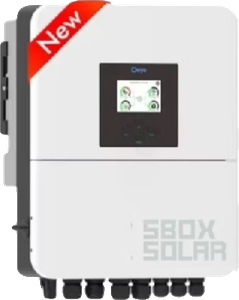
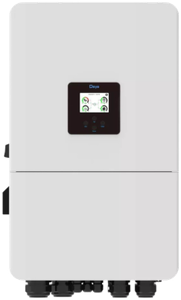
Deye hybrid picture: new watermark-free image from Drive (cache v3)
Claude-Session: https://claude.ai/code/session_01Wo4fCKibBs1zx3JDDLvPwS

Changed region(s): [[0.0, 0.0, 0.9945, 1.0], [0.7182, 0.81, 0.7459, 0.84]]

diff --git a/index.html b/index.html
@@ -3,10 +3,10 @@
 <head>
 <meta charset="utf-8">
 <meta name="viewport" content="width=device-width,initial-scale=1,viewport-fit=cover">
-<meta name="build" content="51da6fa278">
+<meta name="build" content="1b1b8b3d33">
 <script>/* phones keep the old page for a while (GitHub Pages cache): fetch the live copy once and reload if it is newer */
 addEventListener('load',()=>{try{fetch(location.pathname+'?nc='+Date.now(),{cache:'no-store'}).then(r=>r.text()).then(t=>{const m=/<meta name="build" content="([0-9a-f]+)"/.exec(t);
-if(m&&m[1]!=='51da6fa278'&&sessionStorage.getItem('pvsim:reloaded')!==m[1]){sessionStorage.setItem('pvsim:reloaded',m[1]);location.reload()}}).catch(()=>{})}catch(e){}});</script>
+if(m&&m[1]!=='1b1b8b3d33'&&sessionStorage.getItem('pvsim:reloaded')!==m[1]){sessionStorage.setItem('pvsim:reloaded',m[1]);location.reload()}}).catch(()=>{})}catch(e){}});</script>
 <title>ต่อสายแผงโซลาร์</title>
 <script>try{document.documentElement.dataset.theme=localStorage.getItem('pvsim:theme')||'light'}catch(e){document.documentElement.dataset.theme='light'}</script>
 <link rel="stylesheet" href="https://fonts.googleapis.com/css2?family=IBM+Plex+Sans+Thai:wght@400;500;600&family=IBM+Plex+Mono:wght@400;500;600&display=swap">
@@ -517,7 +517,7 @@ if(m&&m[1]!=='51da6fa278'&&sessionStorage.getItem('pvsim:reloaded')!==m[1]){sess
 <script src="js/site.js?v=3ef896c8"></script>
 <script src="js/loads.js?v=d3b46921"></script>
 <script src="js/backup.js?v=c4a06f5f"></script>
-<script src="js/bkanim.js?v=e7e8a31c"></script>
+<script src="js/bkanim.js?v=0b1b2743"></script>
 <script src="js/systems.js?v=a0f2fb7f"></script>
 <script src="js/events.js?v=50b85166"></script>
 <script src="js/bench.js?v=ebe5032f"></script>

diff --git a/dist/pv-wiring-sim.html b/dist/pv-wiring-sim.html
@@ -4561,7 +4561,7 @@ function bkaInvPic(I){
   const show=on=>{img.style.display=on?'':'none';body.style.display=on?'none':'';lcd.setAttribute('transform',on?'translate(0 -70)':'');
     document.getElementById('bainvl').setAttribute('y',on?316:303);document.getElementById('bainvm').setAttribute('y',on?331:319)};
   if(!k||BKA.picBad[k]){show(false);return}
-  if(img.dataset.k!==k){img.dataset.k=k;img.onerror=()=>{BKA.picBad[k]=1;show(false)};img.setAttribute('href','img/inv/'+k+'.png?v=2')}
+  if(img.dataset.k!==k){img.dataset.k=k;img.onerror=()=>{BKA.picBad[k]=1;show(false)};img.setAttribute('href','img/inv/'+k+'.png?v=3')}
   show(true);
 }
 /* time cursor on the menu 07 charts follows the animation time; click a chart to jump the animation there */

diff --git a/js/bkanim.js b/js/bkanim.js
@@ -134,7 +134,7 @@ function bkaInvPic(I){
   const show=on=>{img.style.display=on?'':'none';body.style.display=on?'none':'';lcd.setAttribute('transform',on?'translate(0 -70)':'');
     document.getElementById('bainvl').setAttribute('y',on?316:303);document.getElementById('bainvm').setAttribute('y',on?331:319)};
   if(!k||BKA.picBad[k]){show(false);return}
-  if(img.dataset.k!==k){img.dataset.k=k;img.onerror=()=>{BKA.picBad[k]=1;show(false)};img.setAttribute('href','img/inv/'+k+'.png?v=2')}
+  if(img.dataset.k!==k){img.dataset.k=k;img.onerror=()=>{BKA.picBad[k]=1;show(false)};img.setAttribute('href','img/inv/'+k+'.png?v=3')}
   show(true);
 }
 /* time cursor on the menu 07 charts follows the animation time; click a chart to jump the animation there */
